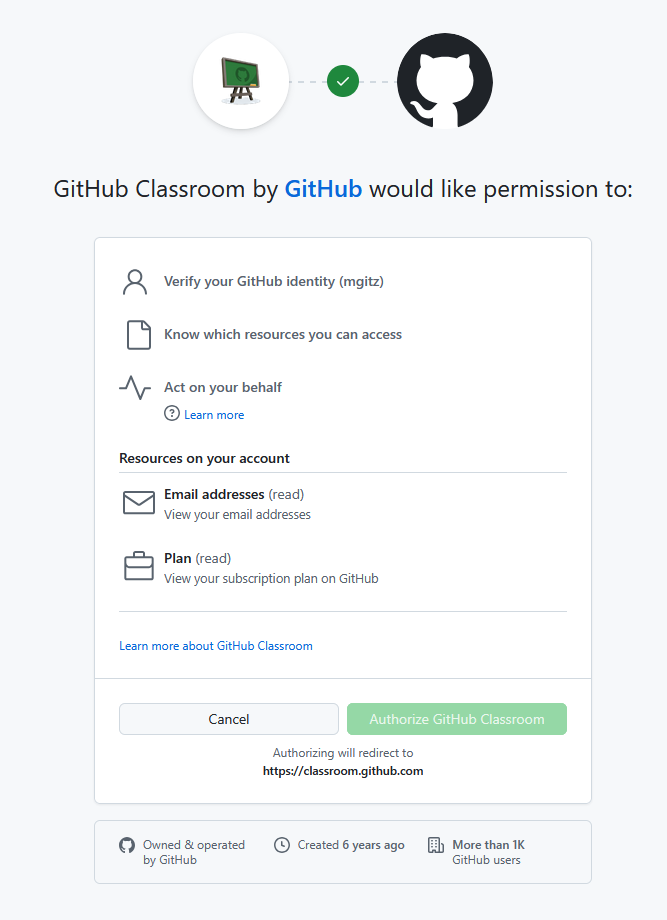
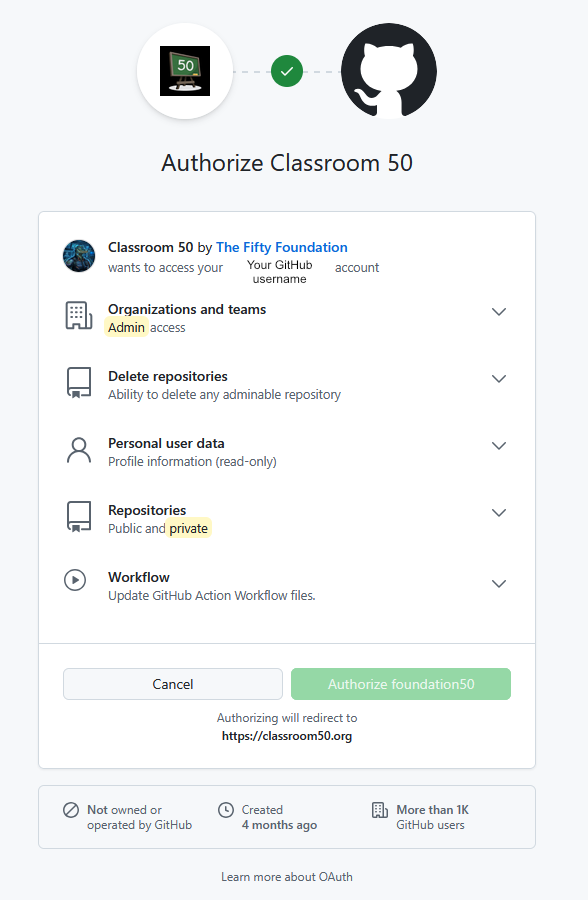
Update Git assignment

diff --git a/github_account.md b/github_account.md
@@ -14,14 +14,14 @@ You do not need to have Git installed on your own computer, but you may want to.
 
 ## What is GitHub.com
 
-{% include image.html file='github_logo.jpg' alt="github.com social coding logo" position="right" max-width=200 %}[GitHub.com](https://github.com) is a service that allows you to host git repositories (sets of files being tracked by git) on a publicly accessible website, further promoting collaboration, sharing, and code distribution. Many applications, data, and more are distributed via GitHub.com, and we will use GitHub.com to explore using git for version control and collaboration. Indeed, the page you are reading now is part of a GitHub repository!   
+{% include image.html file='github_logo.jpg' alt="github.com social coding logo" position="right" max-width=200 %}[GitHub.com](https://github.com) is a commercial service that allows you to host git repositories (sets of files being tracked by git) on a publicly accessible website, further promoting collaboration, sharing, and code distribution. Many applications, data, and more are distributed via GitHub.com, and we will use GitHub.com to explore using git for version control and collaboration. Indeed, the page you are reading now is part of a GitHub repository!
 
 ## Register for your GitHub.com account
 
 * Go to [GitHub.com](https://github.com) and sign up for an account--please use your `@ufl.edu` email address when signing up, which will allow you to get an academic account.
 
      {% include note.html content="GitHub.com frequently updates their pricing model. **By using your UF email and registering for GitHub Education (see below), you will gain free access to GitHub Copilot**, an AI coding assistant. We will use this a fair bit in the course, so I encourage you to do this.<br><br>If you already have an account, but used a non-UF email, you can update your email [here](https://github.com/settings/emails)<br><br>
- Non-UF students can use whatever email is best for them" %}
+     Non-UF students can use whatever email is best for them" %}
 
  {% include tip.html content="You should **never** need to pay anything or enter any credit card information for anything in this course!" %}
 
@@ -29,17 +29,17 @@ You do not need to have Git installed on your own computer, but you may want to.
 
 ## Register for GitHub Education
 
-* **This is optional, but gives you free access to the GitHub Copilot, among other things**: To add the educational upgrade to a pro account, you can go to [https://education.github.com](https://education.github.com) and follow the steps to request an educational discount.
+* **This is optional, but gives you free access to the GitHub Copilot, among other things**: To add the educational upgrade to a pro account, you can go to [https://education.github.com](https://education.github.com) and follow the steps to join GitHub Education and request an educational discount.
 
 ## The assignment
 
 ### Accepting the Assignment
 
- {% include tip.html content="**Why do I need this assignment?** We will use GitHub a lot in this course. I need to know your GitHub username to help with grading." %}
+ {% include tip.html content="**Why do I need this assignment?** We will use GitHub and Classroom 50 throughout the semester. This will introduce you to both." %}
 
-* For this assignment, we will use GitHub Classroom. Click on this link to access the assignment: [https://classroom.github.com/a/tZM5f8lt](https://classroom.github.com/a/tZM5f8lt) (**This link is for the Fall 2026 semester of the course at UF**)
+* Click on this link to access join the Classroom 50 class: [https://classroom50.org/comptoolsres/f2026-comptoolsres/onboard](https://classroom50.org/comptoolsres/f2026-comptoolsres/onboard)  (**This link is for the Fall 2026 semester of the course at UF**)
 
-* **Authorize GitHub Classroom to access your account.**
+* **Authorize Classroom 50 to access your account.**
 
    {% include image.html file='git_authorize.png' alt="Screenshot of authorizing github classroom to access account" position="center" max-width=350 %}
 
